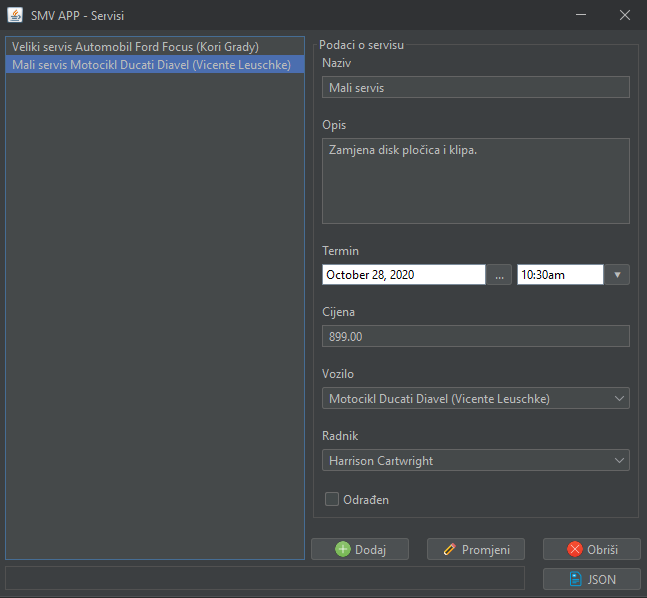
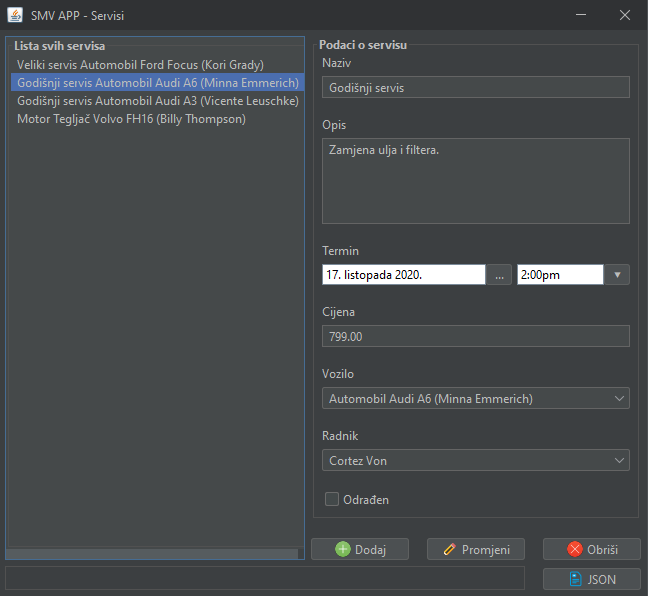
Formatiranje datuma.

diff --git a/src/main/java/hr/friscic/zavrsnirad/view/Servisi.java b/src/main/java/hr/friscic/zavrsnirad/view/Servisi.java
@@ -5,6 +5,7 @@
  */
 package hr.friscic.zavrsnirad.view;
 
+import com.github.lgooddatepicker.components.DatePickerSettings;
 import com.google.gson.ExclusionStrategy;
 import com.google.gson.FieldAttributes;
 import com.google.gson.Gson;
@@ -25,6 +26,7 @@ import java.math.BigDecimal;
 import java.nio.charset.StandardCharsets;
 import java.time.ZoneId;
 import java.util.Date;
+import java.util.Locale;
 import javax.swing.DefaultComboBoxModel;
 import javax.swing.DefaultListModel;
 import javax.swing.JFileChooser;
@@ -63,6 +65,10 @@ public class Servisi extends javax.swing.JFrame {
         cmbRadnik.setSelectedIndex(-1);
         cmbVozilo.setSelectedIndex(-1);
 
+        DatePickerSettings dps = new DatePickerSettings(new Locale("hr", "HR"));
+        dps.setFormatForDatesBeforeCommonEra("dd.MM.yyyy");
+        dpiTermin.datePicker.setSettings(dps);
+
     }
 
     /**
@@ -100,6 +106,7 @@ public class Servisi extends javax.swing.JFrame {
         setDefaultCloseOperation(javax.swing.WindowConstants.DISPOSE_ON_CLOSE);
         setResizable(false);
 
+        lstPodaci.setBorder(javax.swing.BorderFactory.createTitledBorder(null, "Lista svih servisa", javax.swing.border.TitledBorder.DEFAULT_JUSTIFICATION, javax.swing.border.TitledBorder.DEFAULT_POSITION, new java.awt.Font("Segoe UI", 1, 12))); // NOI18N
         lstPodaci.addListSelectionListener(new javax.swing.event.ListSelectionListener() {
             public void valueChanged(javax.swing.event.ListSelectionEvent evt) {
                 lstPodaciValueChanged(evt);
@@ -107,7 +114,7 @@ public class Servisi extends javax.swing.JFrame {
         });
         jScrollPane1.setViewportView(lstPodaci);
 
-        jPanel1.setBorder(javax.swing.BorderFactory.createTitledBorder("Podaci o servisu"));
+        jPanel1.setBorder(javax.swing.BorderFactory.createTitledBorder(null, "Podaci o servisu", javax.swing.border.TitledBorder.DEFAULT_JUSTIFICATION, javax.swing.border.TitledBorder.DEFAULT_POSITION, new java.awt.Font("Segoe UI", 1, 12))); // NOI18N
 
         jLabel1.setText("Naziv");
 
@@ -140,7 +147,7 @@ public class Servisi extends javax.swing.JFrame {
                 .addContainerGap()
                 .addGroup(jPanel1Layout.createParallelGroup(javax.swing.GroupLayout.Alignment.LEADING)
                     .addComponent(txtNaziv)
-                    .addComponent(jScrollPane2)
+                    .addComponent(jScrollPane2, javax.swing.GroupLayout.DEFAULT_SIZE, 308, Short.MAX_VALUE)
                     .addComponent(dpiTermin, javax.swing.GroupLayout.DEFAULT_SIZE, javax.swing.GroupLayout.DEFAULT_SIZE, Short.MAX_VALUE)
                     .addComponent(txtCijena)
                     .addComponent(cmbVozilo, 0, javax.swing.GroupLayout.DEFAULT_SIZE, Short.MAX_VALUE)
@@ -232,7 +239,7 @@ public class Servisi extends javax.swing.JFrame {
                     .addGroup(layout.createSequentialGroup()
                         .addComponent(jScrollPane1, javax.swing.GroupLayout.PREFERRED_SIZE, 300, javax.swing.GroupLayout.PREFERRED_SIZE)
                         .addPreferredGap(javax.swing.LayoutStyle.ComponentPlacement.RELATED)
-                        .addComponent(jPanel1, javax.swing.GroupLayout.DEFAULT_SIZE, javax.swing.GroupLayout.DEFAULT_SIZE, Short.MAX_VALUE))
+                        .addComponent(jPanel1, javax.swing.GroupLayout.PREFERRED_SIZE, javax.swing.GroupLayout.DEFAULT_SIZE, javax.swing.GroupLayout.PREFERRED_SIZE))
                     .addGroup(layout.createSequentialGroup()
                         .addGroup(layout.createParallelGroup(javax.swing.GroupLayout.Alignment.TRAILING)
                             .addGroup(layout.createSequentialGroup()
@@ -244,9 +251,9 @@ public class Servisi extends javax.swing.JFrame {
                             .addGroup(layout.createSequentialGroup()
                                 .addGap(18, 18, 18)
                                 .addComponent(btnObrisi, javax.swing.GroupLayout.PREFERRED_SIZE, 80, javax.swing.GroupLayout.PREFERRED_SIZE))
-                            .addGroup(layout.createSequentialGroup()
+                            .addGroup(javax.swing.GroupLayout.Alignment.TRAILING, layout.createSequentialGroup()
                                 .addGap(18, 18, 18)
-                                .addComponent(btnExportJson, javax.swing.GroupLayout.DEFAULT_SIZE, javax.swing.GroupLayout.DEFAULT_SIZE, Short.MAX_VALUE)))))
+                                .addComponent(btnExportJson, javax.swing.GroupLayout.PREFERRED_SIZE, 98, javax.swing.GroupLayout.PREFERRED_SIZE)))))
                 .addContainerGap(javax.swing.GroupLayout.DEFAULT_SIZE, Short.MAX_VALUE))
         );
 
@@ -359,7 +366,7 @@ public class Servisi extends javax.swing.JFrame {
                 break;
             }
         }
-        chbOdraden.setSelected(entitet.getOdrađen());
+        chbOdraden.setSelected(entitet.getOdraden());
 
 
     }//GEN-LAST:event_lstPodaciValueChanged
@@ -469,7 +476,7 @@ public class Servisi extends javax.swing.JFrame {
 
         entitet.setVozilo((Vozilo) cmbVozilo.getSelectedItem());
         entitet.setRadnik((Radnik) cmbRadnik.getSelectedItem());
-        entitet.setOdrađen(chbOdraden.isSelected());
+        entitet.setOdraden(chbOdraden.isSelected());
         obrada.setEntitet(entitet);
     }
 

diff --git a/src/main/java/hr/friscic/zavrsnirad/model/Servis.java b/src/main/java/hr/friscic/zavrsnirad/model/Servis.java
@@ -23,7 +23,7 @@ public class Servis extends Entitet {
     private String opis;
     private BigDecimal cijena;
     private Date termin;
-    private Boolean odrađen;
+    private Boolean odraden;
 
     @ManyToOne
     private Vozilo vozilo;
@@ -39,12 +39,12 @@ public class Servis extends Entitet {
         this.termin = termin;
     }
 
-    public Boolean getOdrađen() {
-        return odrađen;
+    public Boolean getOdraden() {
+        return odraden;
     }
 
-    public void setOdrađen(Boolean odrađen) {
-        this.odrađen = odrađen;
+    public void setOdraden(Boolean odraden) {
+        this.odraden = odraden;
     }
     
     

diff --git a/src/main/java/hr/friscic/zavrsnirad/view/Klijenti.java b/src/main/java/hr/friscic/zavrsnirad/view/Klijenti.java
@@ -410,7 +410,7 @@ public class Klijenti extends javax.swing.JFrame {
         entitet.setPrezime(txtPrezime.getText());
         entitet.setOib(txtOib.getText());
         entitet.setEmail(txtEmail.getText());
-        entitet.setKontaktbroj(txtKontaktBroj.getText());
+        entitet.setKontaktbroj(txtKontaktBroj.getText().trim());
 
         obrada.setEntitet(entitet);
     }

diff --git a/src/main/java/hr/friscic/zavrsnirad/controller/ObradaKlijent.java b/src/main/java/hr/friscic/zavrsnirad/controller/ObradaKlijent.java
@@ -48,6 +48,9 @@ public class ObradaKlijent extends ObradaOsoba<Klijent> {
         if (!entitet.getKontaktbroj().matches("[0-9]+")) {
             throw new Iznimka("Kontakt broj nije valjan!");
         }
+        if (entitet.getKontaktbroj().length()> 14) {
+            throw new Iznimka("Kontakt broj nije valjan!");
+        }
     }
 
     @Override

diff --git a/src/main/java/hr/friscic/zavrsnirad/controller/ObradaServis.java b/src/main/java/hr/friscic/zavrsnirad/controller/ObradaServis.java
@@ -85,7 +85,7 @@ public class ObradaServis extends Obrada<Servis> {
     }
 
     private void kontrolaOdraden() throws Iznimka {
-        if (entitet.getOdrađen() == null) {
+        if (entitet.getOdraden() == null) {
             throw new Iznimka("Obavezan unos otkazivanja servisa: DA/NE?");
         }
     }
